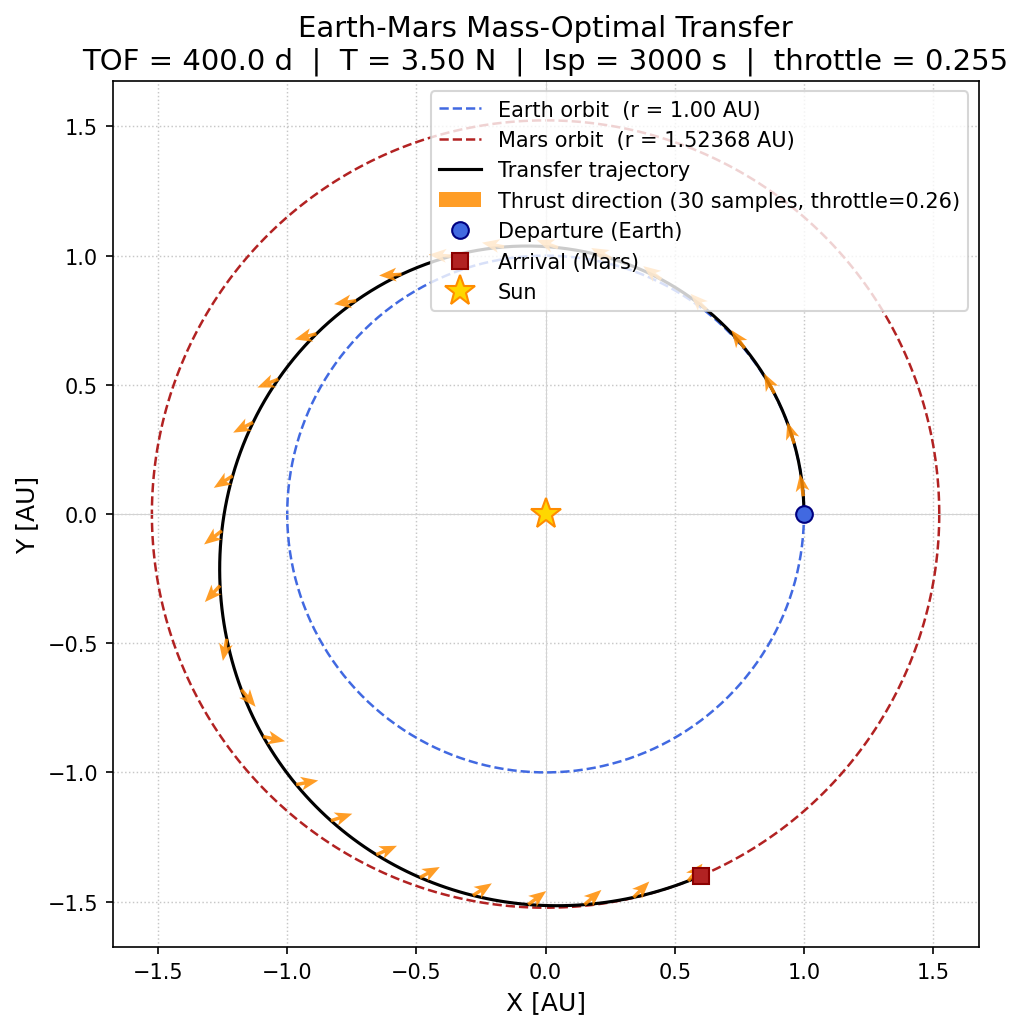
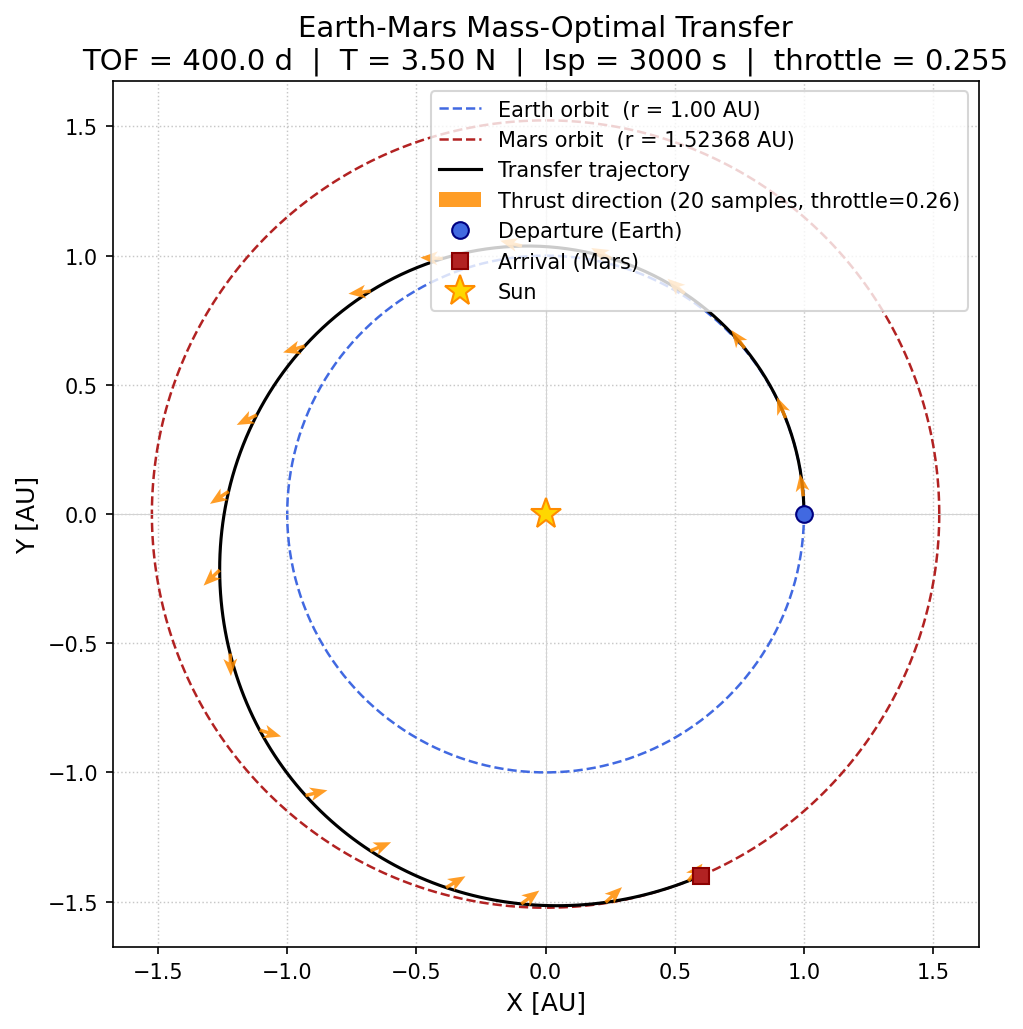
Add files via upload

diff --git a/baseline/impulsive_transfer.py b/baseline/impulsive_transfer.py
@@ -265,13 +265,14 @@ if __name__ == '__main__':
     # ------------------------------------------------------------------
     # 4. compute_baseline
     # ------------------------------------------------------------------
-    print('Test 4: compute_baseline with default spacecraft params')
+    print('Test 4: compute_baseline with chemical propulsion spacecraft params')
+    print('        (bipropellant MMH/NTO: Isp=320 s, thrust=440 N)')
     from config.mission_config import MissionConfig
 
     cfg = MissionConfig(
         initial_mass_kg      = 5000.0,
-        thrust_N             = 3.5,
-        isp_s                = 3000.0,
+        thrust_N             = 440.0,   # bipropellant main engine [N]
+        isp_s                = 320.0,   # MMH/NTO bipropellant Isp [s]
         opt_mode             = 'time_optimal',
         n_segments           = 10,
         time_guess_days      = 200.0,
